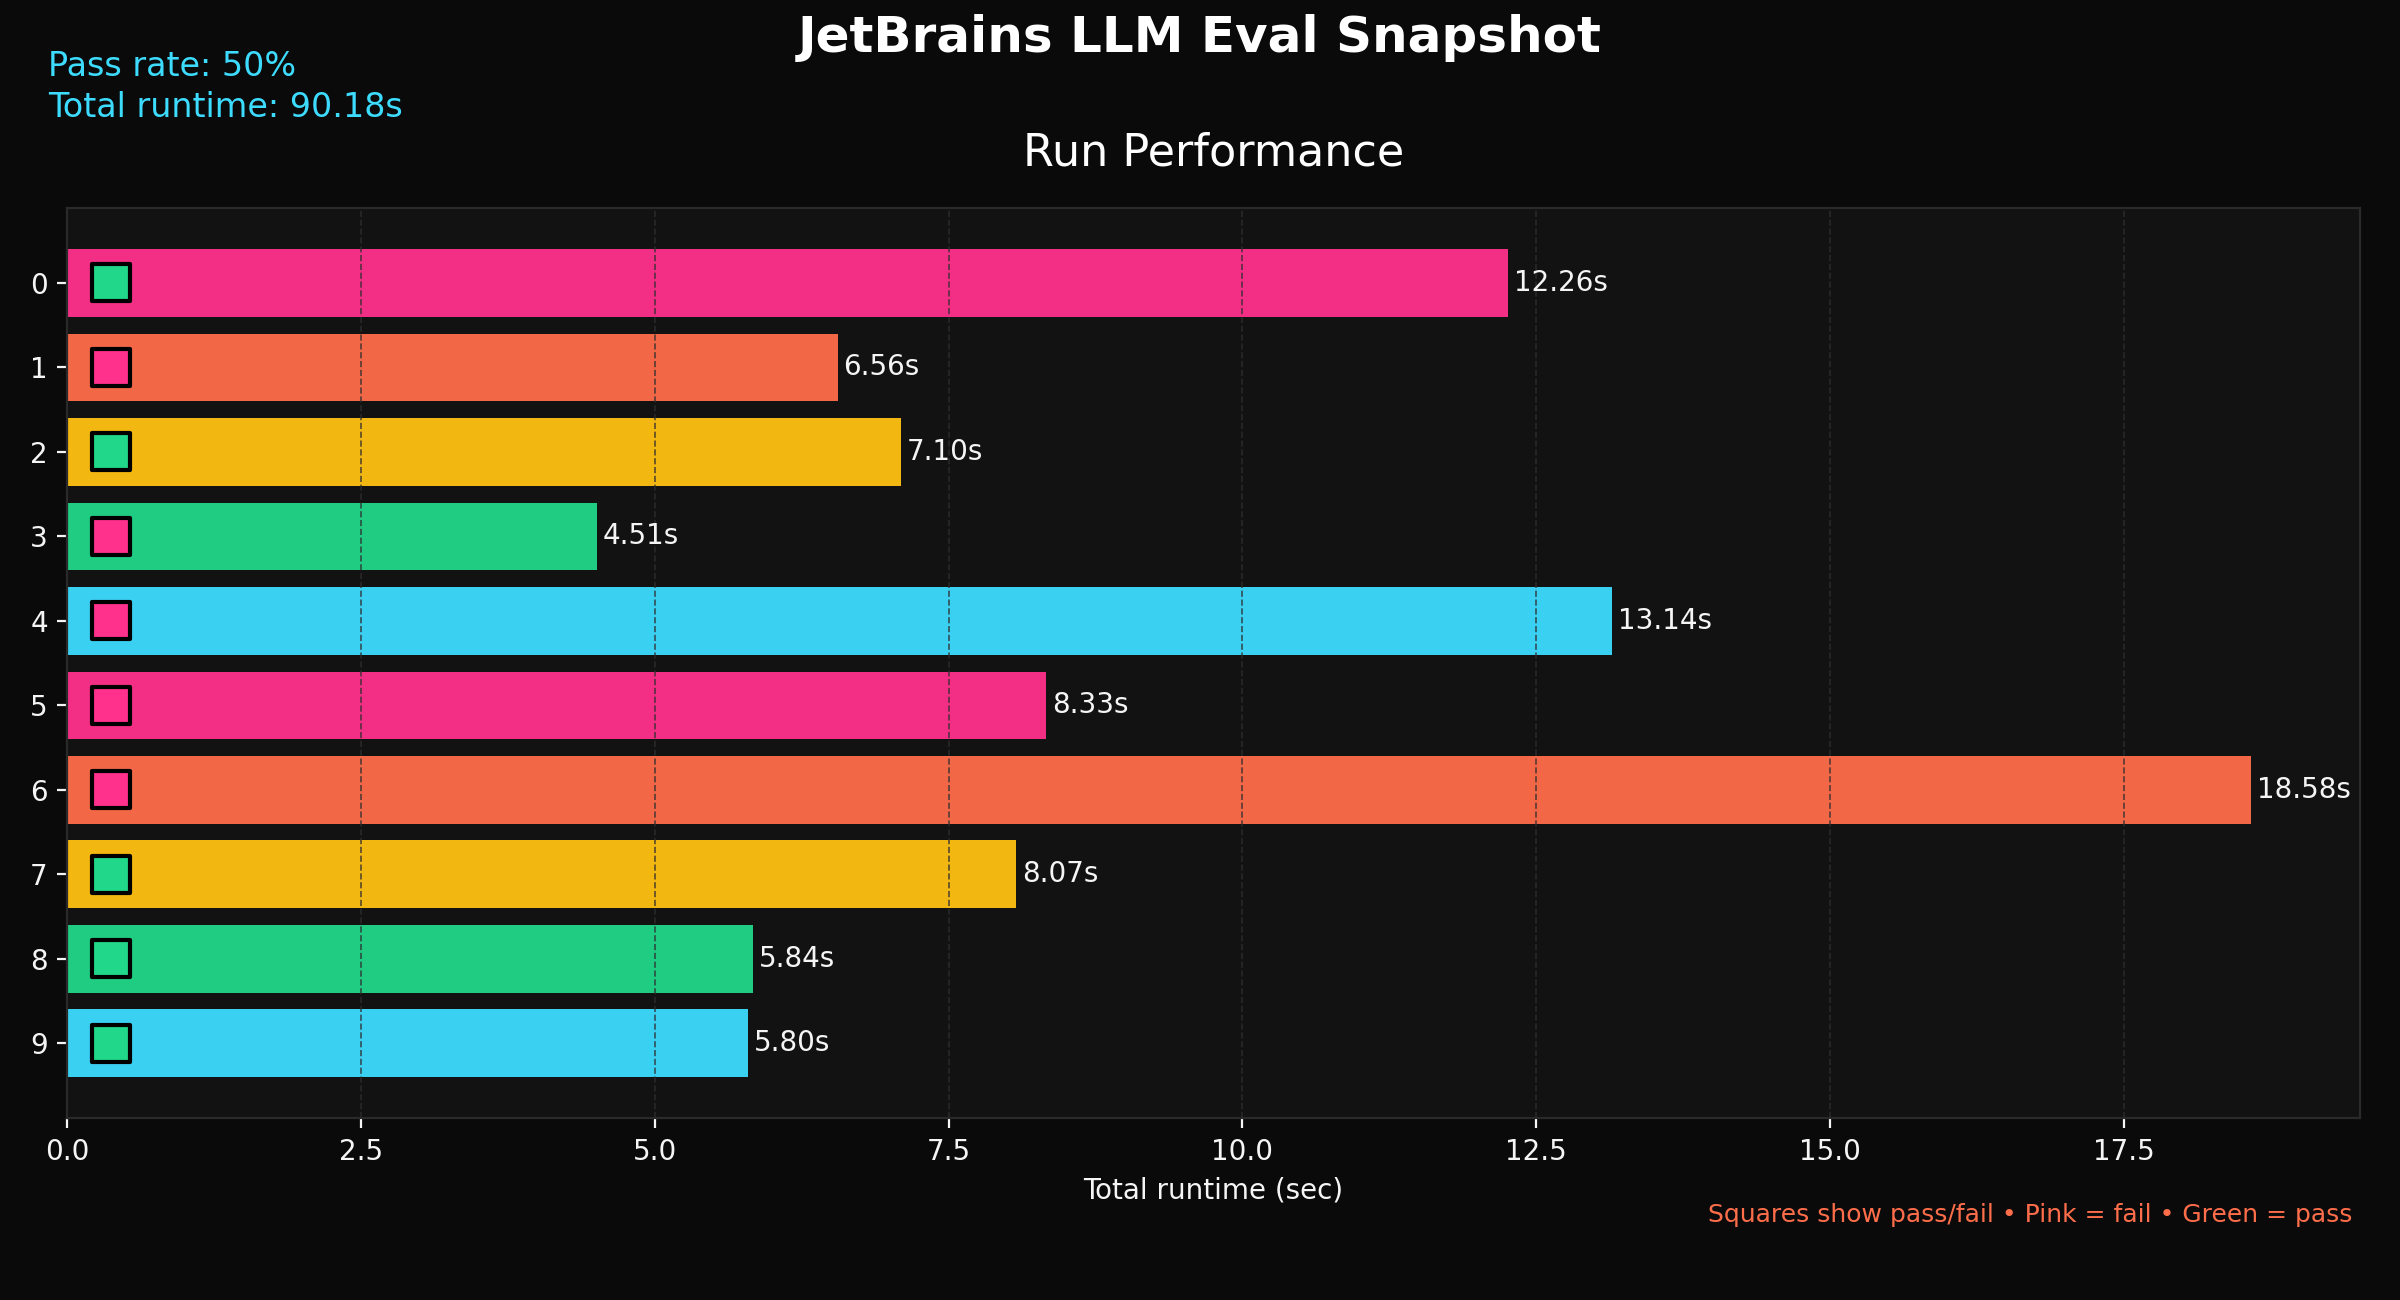
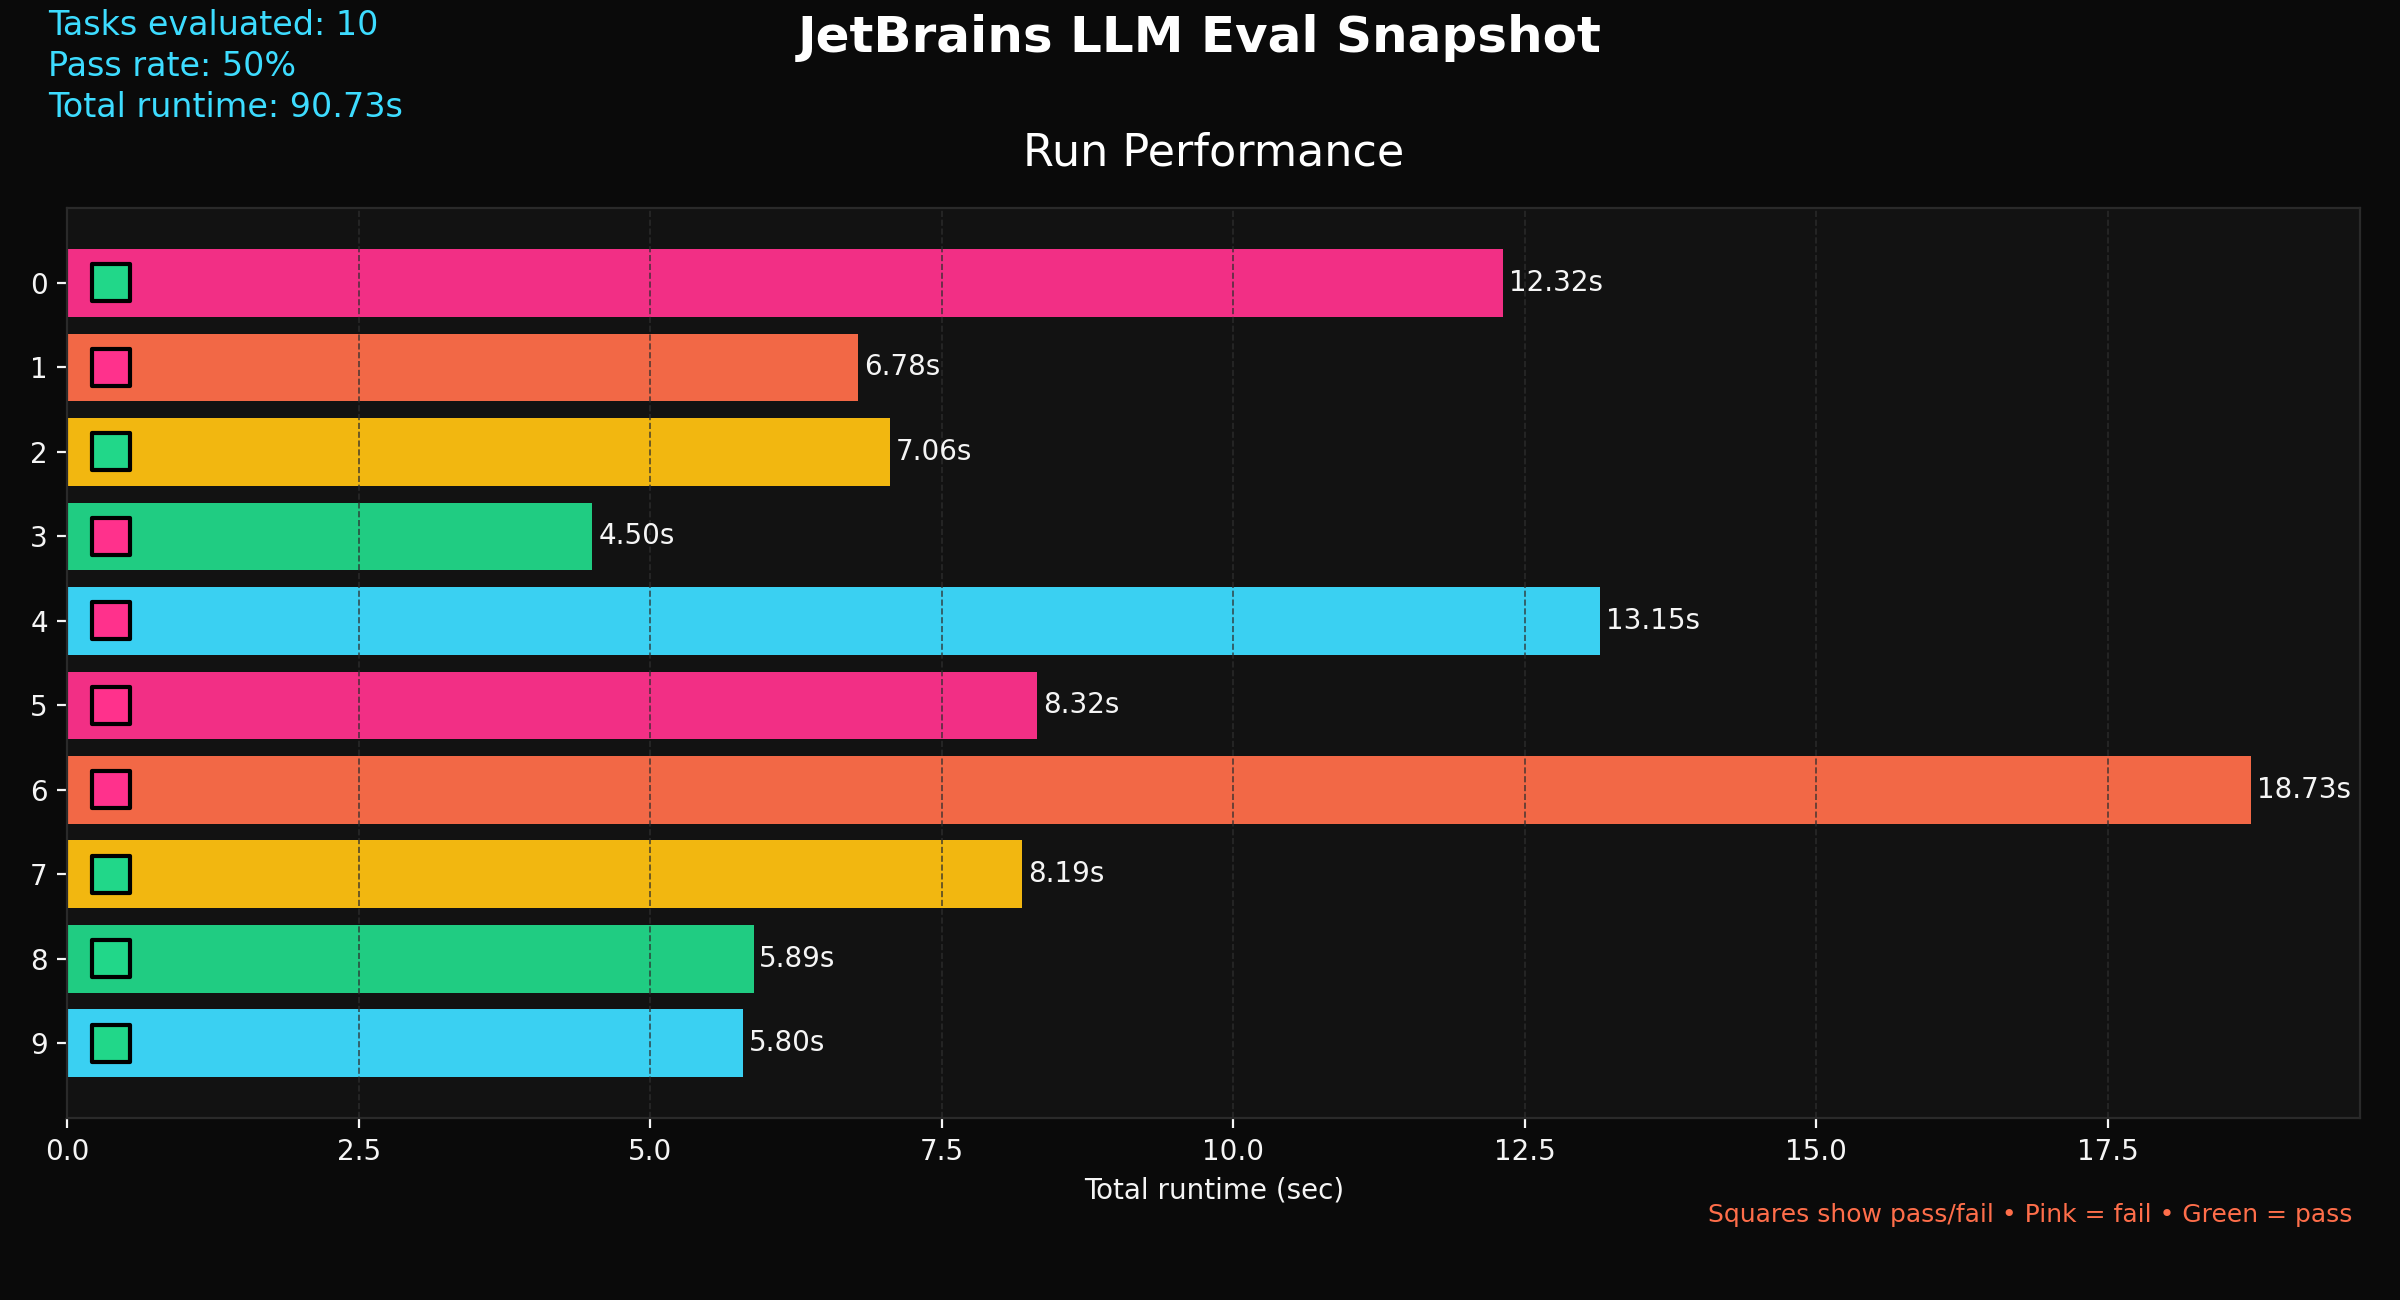
add model name to plot

diff --git a/src/visualize_results.py b/src/visualize_results.py
@@ -1,7 +1,7 @@
 import argparse
 import json
 from pathlib import Path
-from typing import List, Tuple
+from typing import List, Tuple, Optional
 
 import matplotlib.pyplot as plt
 
@@ -30,11 +30,40 @@ def extract_metrics(
     return task_ids, passed, runtime
 
 
+def infer_model_name(results: List[dict]) -> Optional[str]:
+    resolved: Optional[str] = None
+    alias: Optional[str] = None
+    for entry in results:
+        if alias is None:
+            alias_raw = entry.get("model_alias")
+            if isinstance(alias_raw, str) and alias_raw.strip():
+                alias = alias_raw.strip()
+        for key in ("model", "model_id", "model_name"):
+            value = entry.get(key)
+            if isinstance(value, str) and value.strip():
+                if resolved is None:
+                    resolved = value.strip()
+                break
+        else:
+            metadata = entry.get("metadata")
+            if isinstance(metadata, dict):
+                for key in ("model", "model_id", "model_name"):
+                    value = metadata.get(key)
+                    if isinstance(value, str) and value.strip():
+                        if resolved is None:
+                            resolved = value.strip()
+                        break
+    if resolved and alias and alias != resolved:
+        return f"{alias} -> {resolved}"
+    return resolved or alias
+
+
 def plot_results(
     task_ids: List[str],
     passed: List[bool],
     runtime: List[float],
     output: Path,
+    model_name: Optional[str] = None,
 ) -> None:
     color_cycle = build_color_cycle(len(task_ids))
     pass_colors = ["#21D789" if flag else "#FF318C" for flag in passed]
@@ -56,7 +85,10 @@ def plot_results(
         task_ids, runtime, color=color_cycle, edgecolor="none", alpha=0.95
     )
     ax_runtime.set_xlabel("Total runtime (sec)", color="#F5F5F5")
-    ax_runtime.set_title("Run Performance", color="#FFFFFF", pad=15, fontsize=16)
+    title = "Run Performance"
+    if model_name:
+        title = f"{title} - {model_name}"
+    ax_runtime.set_title(title, color="#FFFFFF", pad=15, fontsize=16)
     ax_runtime.invert_yaxis()
     ax_runtime.grid(
         True, axis="x", linestyle="--", linewidth=0.6, color="#2E2E2E", alpha=0.8
@@ -87,6 +119,13 @@ def plot_results(
 
     pass_rate = sum(passed) / len(passed) if passed else 0.0
     total_runtime = sum(runtime)
+    model_label = model_name if model_name else "not provided"
+    details_lines = [
+        f"Model: {model_label}",
+        f"Tasks evaluated: {len(task_ids)}",
+        f"Pass rate: {pass_rate:.0%}",
+        f"Total runtime: {total_runtime:.2f}s",
+    ]
 
     fig.text(
         0.5,
@@ -100,7 +139,7 @@ def plot_results(
     fig.text(
         0.02,
         0.91,
-        f"Pass rate: {pass_rate:.0%}\nTotal runtime: {total_runtime:.2f}s",
+        "\n".join(details_lines),
         color="#3DDCFF",
         fontsize=12,
         linespacing=1.3,
@@ -137,6 +176,12 @@ def main() -> None:
         default=Path("results/bogus_results.png"),
         help="Where to save the rendered visualization",
     )
+    parser.add_argument(
+        "--model-name",
+        type=str,
+        default=None,
+        help="Optional model identifier to annotate on the visualization",
+    )
     args = parser.parse_args()
 
     results = load_results(args.input)
@@ -144,7 +189,8 @@ def main() -> None:
         raise SystemExit(f"No results found in {args.input}")
 
     task_ids, passed, runtime = extract_metrics(results)
-    plot_results(task_ids, passed, runtime, output=args.output)
+    model_name = args.model_name or infer_model_name(results)
+    plot_results(task_ids, passed, runtime, output=args.output, model_name=model_name)
     print(f"Visualization saved to {args.output}")
 
 

diff --git a/src/eval/humaneval_eval.py b/src/eval/humaneval_eval.py
@@ -11,6 +11,7 @@ from itertools import islice
 from datasets import load_dataset
 
 from ..agent import HFChatModel, build_graph, AgentConfig
+from ..agent.llm import _normalize_model_id
 
 
 @dataclass
@@ -173,6 +174,7 @@ def run_pass_at_1(
         if pending_jobs
         else None
     )
+    resolved_model_id = llm.model if llm is not None else _normalize_model_id(cfg.model)
     agent_cfg = (
         AgentConfig(
             max_iters=max(0, int(cfg.iters)),
@@ -199,7 +201,15 @@ def run_pass_at_1(
     for j in jobs:
         task_key = str(j["task_id"])
         if task_key in existing_map:
-            res = existing_map[task_key]
+            res = dict(existing_map[task_key])
+            if "model" not in res:
+                res["model"] = resolved_model_id
+            if (
+                cfg.model
+                and res.get("model_alias") is None
+                and cfg.model != res.get("model")
+            ):
+                res["model_alias"] = cfg.model
             logging.info(
                 "[%s] skipping (resume) passed=%s", j["task_id"], res.get("passed")
             )
@@ -230,6 +240,10 @@ def run_pass_at_1(
             "runtime_sec": dt,
             "completion": out_state.get("final_code") or out_state.get("code"),
         }
+        # Preserve normalized/alias pair so downstream tooling can label plots precisely
+        res["model"] = resolved_model_id
+        if cfg.model and cfg.model != resolved_model_id:
+            res["model_alias"] = cfg.model
         metrics = out_state.get("metrics") or {}
         if metrics:
             res["timings_sec"] = {
@@ -290,4 +304,12 @@ def run_pass_at_1(
                 f.write(json.dumps(r) + "\n")
 
     logging.info("pass@1 = %.4f (%s/%s)", pass_at_1, n_pass, total)
-    return {"pass@1": pass_at_1, "n": total, "results": ordered_results}
+    payload: Dict[str, Any] = {
+        "pass@1": pass_at_1,
+        "n": total,
+        "model": resolved_model_id,
+        "results": ordered_results,
+    }
+    if cfg.model and cfg.model != resolved_model_id:
+        payload["model_alias"] = cfg.model
+    return payload

diff --git a/run.py b/run.py
@@ -248,6 +248,12 @@ def main() -> None:
             else Path(f"{output_path}.png")
         )
         try:
+            model_label = res.get("model") or cfg.model
+            alias = res.get("model_alias")
+            if alias and alias != model_label:
+                model_for_plot = f"{alias} -> {model_label}"
+            else:
+                model_for_plot = model_label
             subprocess.run(
                 [
                     sys.executable,
@@ -257,6 +263,8 @@ def main() -> None:
                     str(output_path),
                     "--output",
                     str(png_path),
+                    "--model-name",
+                    model_for_plot,
                 ],
                 check=True,
             )
